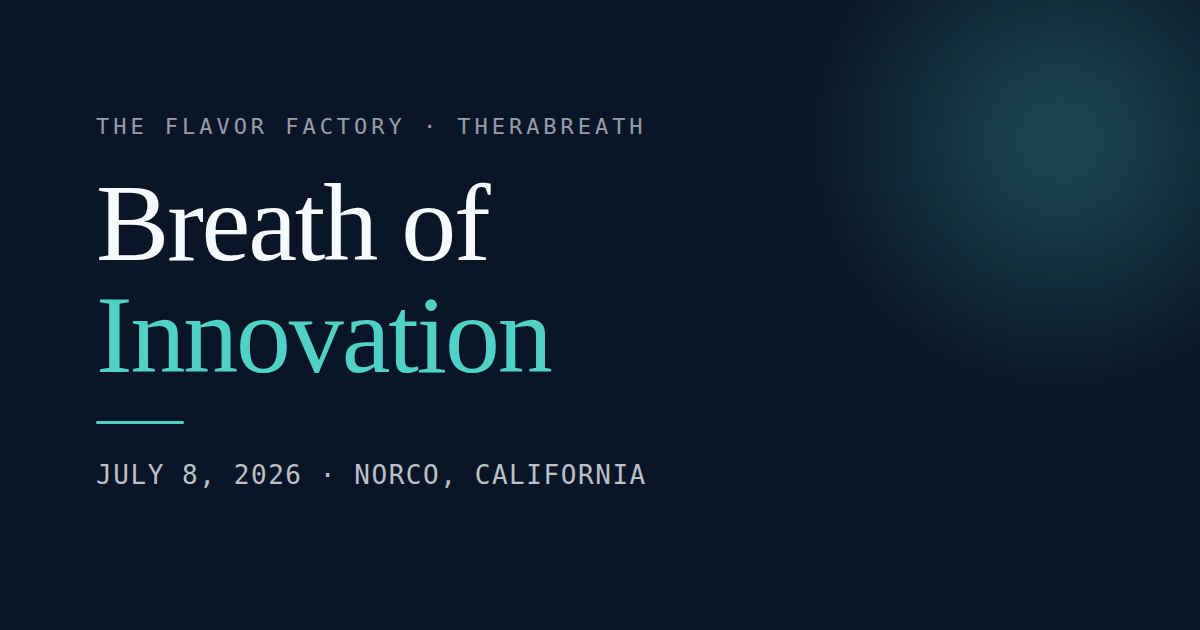
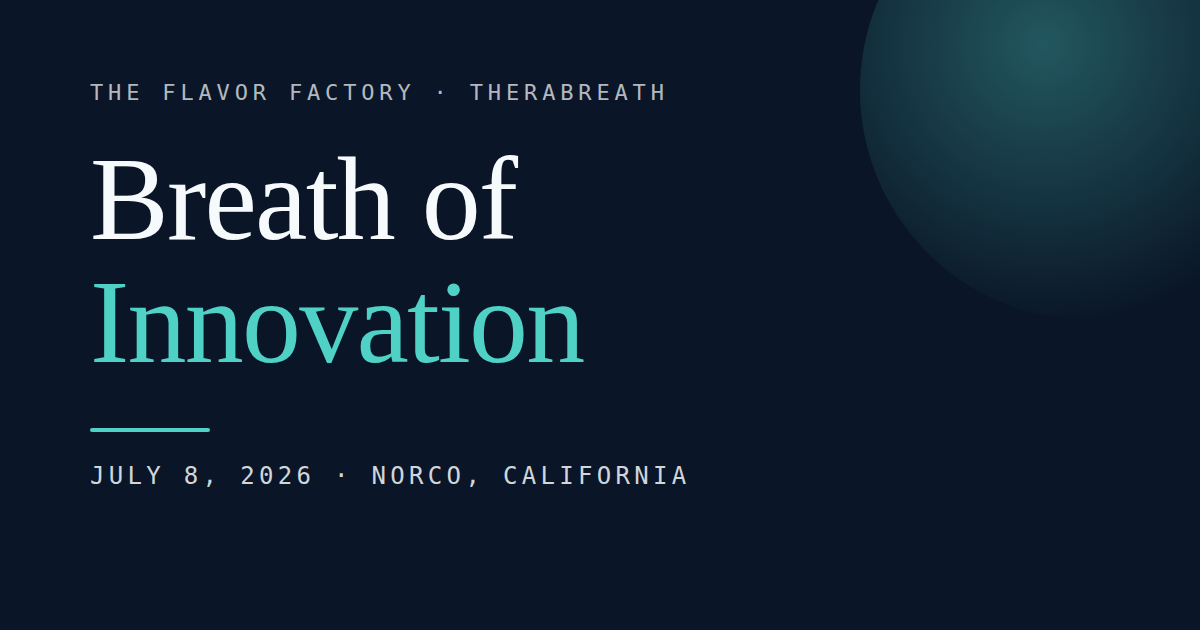
Swap display font from Fraunces to Source Serif 4 for readability
Fraunces letterforms (hooked f descenders, calligraphic details) read as
distracting at slide sizes. Source Serif 4 keeps the editorial serif voice
with clean, conventional letterforms. Removed the now unused SOFT and WONK
variation settings and regenerated the shared OG image to match.

Claude-Session: https://claude.ai/code/session_01STAb6oPpepGvZqQyt5Vx9Z

diff --git a/css/system.css b/css/system.css
@@ -17,7 +17,7 @@
   --ink-55: color-mix(in srgb, var(--ink) 55%, transparent);
 
   /* Type families */
-  --font-display: "Fraunces", Georgia, "Times New Roman", serif;
+  --font-display: "Source Serif 4", Georgia, "Times New Roman", serif;
   --font-body: "Inter", system-ui, -apple-system, sans-serif;
   --font-mono: "IBM Plex Mono", ui-monospace, "SFMono-Regular", monospace;
 
@@ -42,14 +42,13 @@
   --stagger: 70ms;
 }
 
-/* Display face warmth via SOFT and WONK, kept low */
+/* Display face. Source Serif 4 for clean, readable editorial headlines */
 .font-display,
 .sys h1,
 .sys h2,
 .sys .display {
   font-family: var(--font-display);
   font-optical-sizing: auto;
-  font-variation-settings: "SOFT" 40, "WONK" 0;
   letter-spacing: -0.01em;
   line-height: 1.05;
 }
@@ -189,7 +188,7 @@ body.hub .hub-nav {
   border: 1px solid var(--line);
 }
 body.hub .hub-mark { background: var(--ink); color: var(--paper); }
-body.hub .hub-brand-text { font-family: var(--font-display); font-variation-settings: "SOFT" 40; letter-spacing: -0.01em; }
+body.hub .hub-brand-text { font-family: var(--font-display); letter-spacing: -0.01em; }
 body.hub .hub-nav-links a { font-family: var(--font-mono); font-size: var(--t-xs); color: var(--ink-70); }
 body.hub .hub-nav-links a:hover { color: var(--ink); background: color-mix(in srgb, var(--breath) 16%, transparent); }
 body.hub .hub-nav-meta { font-family: var(--font-mono); color: var(--ink-55); letter-spacing: 0.08em; }
@@ -214,7 +213,6 @@ body.hub .hub-eyebrow {
 
 body.hub .hub-title {
   font-family: var(--font-display);
-  font-variation-settings: "SOFT" 40, "WONK" 0;
   font-weight: 500;
   letter-spacing: -0.02em;
   line-height: 1.02;
@@ -314,7 +312,7 @@ body.hub .hub-tile:hover {
 }
 body.hub .hub-tile:active { transform: scale(0.98); }
 body.hub .hub-tile-tag { font-family: var(--font-mono); color: var(--ink-70) !important; letter-spacing: 0.1em; }
-body.hub .hub-tile h3 { font-family: var(--font-display); font-variation-settings: "SOFT" 40; font-weight: 500; color: var(--ink); }
+body.hub .hub-tile h3 { font-family: var(--font-display); font-weight: 500; color: var(--ink); }
 body.hub .hub-tile p { color: var(--ink-70); font-family: var(--font-body); }
 body.hub .hub-tile-go { font-family: var(--font-mono); font-size: var(--t-xs); color: var(--ink) !important; }
 body.hub .hub-tile-go::after { content: " →"; transition: margin-left var(--dur-fast) var(--ease-out); }
@@ -447,7 +445,6 @@ html.pres-mode .pres-slide-inner::before {
 html.pres-mode .pres-slide h1,
 html.pres-mode .pres-qa-q {
   font-family: var(--font-display);
-  font-variation-settings: "SOFT" 40, "WONK" 0;
   font-weight: 500;
   letter-spacing: -0.02em;
   color: var(--ink);
@@ -545,7 +542,6 @@ html.pres-mode .pres-pillar-cell::before {
 html.pres-mode .pres-pillar-cell h3 {
   position: relative;
   font-family: var(--font-display);
-  font-variation-settings: "SOFT" 40;
   font-weight: 500;
   font-size: clamp(1.1rem, 2.6vmin, 1.7rem);
   color: var(--ink);
@@ -635,7 +631,7 @@ body.tasting .boi-score-actions { position: relative; z-index: 2; }
 /* Type in-system */
 body.tasting h1,
 body.tasting h2,
-body.tasting h3 { font-family: var(--font-display); font-variation-settings: "SOFT" 40, "WONK" 0; font-weight: 500; color: var(--paper); }
+body.tasting h3 { font-family: var(--font-display); font-weight: 500; color: var(--paper); }
 body.tasting .boi-kicker {
   font-family: var(--font-mono);
   letter-spacing: 0.14em;
@@ -802,7 +798,6 @@ body.port-mode .port-kicker i { background: var(--breath); }
 
 body.port-mode .port-hero h1 {
   font-family: var(--font-display);
-  font-variation-settings: "SOFT" 40, "WONK" 0;
   font-weight: 500;
   letter-spacing: -0.02em;
   color: var(--ink);
@@ -880,7 +875,6 @@ body.port-mode .port-card-img:not(.port-card-img--bottle):not(.port-card-img--te
 body.port-mode .port-card-foot-tag { font-family: var(--font-mono); letter-spacing: 0.08em; }
 body.port-mode .port-card-title {
   font-family: var(--font-display);
-  font-variation-settings: "SOFT" 40;
   font-weight: 500;
   letter-spacing: -0.01em;
 }
@@ -896,7 +890,7 @@ body.port-mode .port-card-title {
   body.port-mode .port-card-desc { clip-path: none !important; }
 }
 
-body.port-mode .port-close h2 { font-family: var(--font-display); font-variation-settings: "SOFT" 40; font-weight: 500; }
+body.port-mode .port-close h2 { font-family: var(--font-display); font-weight: 500; }
 
 /* ═══════════════════════════════════════════════════════════════
    FIND (body.dir-page) · command palette register
@@ -909,7 +903,6 @@ body.dir-page {
 body.dir-page .dir-hero-kicker { font-family: var(--font-mono); color: var(--ink-70); letter-spacing: 0.14em; }
 body.dir-page .dir-hero h1 {
   font-family: var(--font-display);
-  font-variation-settings: "SOFT" 40, "WONK" 0;
   font-weight: 500;
   color: var(--ink);
 }
@@ -946,12 +939,11 @@ body.dir-page .dir-search-hit:hover { background: color-mix(in srgb, var(--breat
 body.dir-page .dir-search-meta { font-family: var(--font-mono); letter-spacing: 0.06em; }
 body.dir-page .dir-cluster-head h2 {
   font-family: var(--font-display);
-  font-variation-settings: "SOFT" 40;
   font-weight: 500;
   color: var(--ink);
 }
 body.dir-page .dir-jump a { font-family: var(--font-mono); font-size: var(--t-xs); }
-body.dir-page .dir-card h3 { font-family: var(--font-display); font-variation-settings: "SOFT" 40; font-weight: 500; }
+body.dir-page .dir-card h3 { font-family: var(--font-display); font-weight: 500; }
 body.dir-page .dir-card em { font-family: var(--font-mono); }
 body.dir-page .dir-card {
   border-radius: var(--radius);
@@ -984,7 +976,7 @@ body.visit-page .boi-nav-links a.cta { background: var(--ink); color: var(--pape
 
 body.visit-page h1,
 body.visit-page h2,
-body.visit-page h3 { font-family: var(--font-display); font-variation-settings: "SOFT" 40, "WONK" 0; font-weight: 500; color: var(--ink); }
+body.visit-page h3 { font-family: var(--font-display); font-weight: 500; color: var(--ink); }
 body.visit-page .boi-kicker { font-family: var(--font-mono); letter-spacing: 0.14em; color: var(--ink-70); }
 body.visit-page .boi-kicker i {
   width: 8px; height: 8px; border-radius: 50%; background: var(--breath);

diff --git a/find.html b/find.html
@@ -7,7 +7,7 @@
     <meta name="theme-color" content="#f7fafc" />
     <title>Find Anything · Breath of Innovation</title>
     <link rel="icon" href="/assets/favicon.svg" type="image/svg+xml" />
-    <link href="https://fonts.googleapis.com/css2?family=Fraunces:ital,opsz,wght,SOFT,WONK@0,9..144,400..600,0..100,0..1&family=Inter:wght@400;500;600;700&family=IBM+Plex+Mono:wght@400;500;600&display=swap" rel="stylesheet" />
+    <link href="https://fonts.googleapis.com/css2?family=Source+Serif+4:ital,opsz,wght@0,8..60,400..700&family=Inter:wght@400;500;600;700&family=IBM+Plex+Mono:wght@400;500;600&display=swap" rel="stylesheet" />
     <link rel="stylesheet" href="/css/directory.css" />
     <link rel="stylesheet" href="/css/brand.css" />
     <link rel="stylesheet" href="/css/system.css" />

diff --git a/index.html b/index.html
@@ -9,7 +9,7 @@
     <link rel="icon" href="/assets/favicon.svg" type="image/svg+xml" />
     <link rel="preconnect" href="https://fonts.googleapis.com" />
     <link rel="preconnect" href="https://fonts.gstatic.com" crossorigin />
-    <link href="https://fonts.googleapis.com/css2?family=Fraunces:ital,opsz,wght,SOFT,WONK@0,9..144,400..600,0..100,0..1&family=Inter:wght@400;500;600;700&family=IBM+Plex+Mono:wght@400;500;600&display=swap" rel="stylesheet" />
+    <link href="https://fonts.googleapis.com/css2?family=Source+Serif+4:ital,opsz,wght@0,8..60,400..700&family=Inter:wght@400;500;600;700&family=IBM+Plex+Mono:wght@400;500;600&display=swap" rel="stylesheet" />
     <link rel="stylesheet" href="/css/hub.css" />
     <link rel="stylesheet" href="/css/directory.css" />
     <link rel="stylesheet" href="/css/brand.css" />

diff --git a/map.html b/map.html
@@ -9,7 +9,7 @@
     <link rel="icon" href="/assets/favicon.svg" type="image/svg+xml" />
     <link rel="preconnect" href="https://fonts.googleapis.com" />
     <link rel="preconnect" href="https://fonts.gstatic.com" crossorigin />
-    <link href="https://fonts.googleapis.com/css2?family=Fraunces:ital,opsz,wght,SOFT,WONK@0,9..144,400..600,0..100,0..1&family=Inter:wght@400;500;600;700&family=IBM+Plex+Mono:wght@400;500;600&display=swap" rel="stylesheet" />
+    <link href="https://fonts.googleapis.com/css2?family=Source+Serif+4:ital,opsz,wght@0,8..60,400..700&family=Inter:wght@400;500;600;700&family=IBM+Plex+Mono:wght@400;500;600&display=swap" rel="stylesheet" />
     <link rel="stylesheet" href="/css/site.css" />
     <link rel="stylesheet" href="/css/taste.css" />
     <link rel="stylesheet" href="/css/system.css" />

diff --git a/portfolio.html b/portfolio.html
@@ -9,7 +9,7 @@
     <link rel="icon" href="/assets/favicon.svg" type="image/svg+xml" />
     <link rel="preconnect" href="https://fonts.googleapis.com" />
     <link rel="preconnect" href="https://fonts.gstatic.com" crossorigin />
-    <link href="https://fonts.googleapis.com/css2?family=Fraunces:ital,opsz,wght,SOFT,WONK@0,9..144,400..600,0..100,0..1&family=Inter:wght@400;500;600;700&family=IBM+Plex+Mono:wght@400;500;600&display=swap" rel="stylesheet" />
+    <link href="https://fonts.googleapis.com/css2?family=Source+Serif+4:ital,opsz,wght@0,8..60,400..700&family=Inter:wght@400;500;600;700&family=IBM+Plex+Mono:wght@400;500;600&display=swap" rel="stylesheet" />
     <link rel="stylesheet" href="/css/site.css" />
     <link rel="stylesheet" href="/css/portfolio.css" />
     <link rel="stylesheet" href="/css/system.css" />

diff --git a/present.html b/present.html
@@ -8,7 +8,7 @@
     <link rel="icon" href="/assets/favicon.svg" type="image/svg+xml" />
     <link rel="preconnect" href="https://fonts.googleapis.com" />
     <link rel="preconnect" href="https://fonts.gstatic.com" crossorigin />
-    <link href="https://fonts.googleapis.com/css2?family=Fraunces:ital,opsz,wght,SOFT,WONK@0,9..144,400..600,0..100,0..1&family=Inter:wght@400;500;600;700&family=IBM+Plex+Mono:wght@400;500;600&display=swap" rel="stylesheet" />
+    <link href="https://fonts.googleapis.com/css2?family=Source+Serif+4:ital,opsz,wght@0,8..60,400..700&family=Inter:wght@400;500;600;700&family=IBM+Plex+Mono:wght@400;500;600&display=swap" rel="stylesheet" />
     <link rel="stylesheet" href="/css/site.css" />
     <link rel="stylesheet" href="/css/present.css" />
     <link rel="stylesheet" href="/css/brand.css" />

diff --git a/score.html b/score.html
@@ -9,7 +9,7 @@
     <link rel="icon" href="/assets/favicon.svg" type="image/svg+xml" />
     <link rel="preconnect" href="https://fonts.googleapis.com" />
     <link rel="preconnect" href="https://fonts.gstatic.com" crossorigin />
-    <link href="https://fonts.googleapis.com/css2?family=Fraunces:ital,opsz,wght,SOFT,WONK@0,9..144,400..600,0..100,0..1&family=Inter:wght@400;500;600;700&family=IBM+Plex+Mono:wght@400;500;600&display=swap" rel="stylesheet" />
+    <link href="https://fonts.googleapis.com/css2?family=Source+Serif+4:ital,opsz,wght@0,8..60,400..700&family=Inter:wght@400;500;600;700&family=IBM+Plex+Mono:wght@400;500;600&display=swap" rel="stylesheet" />
     <link rel="stylesheet" href="/css/site.css" />
     <link rel="stylesheet" href="/css/taste.css" />
     <link rel="stylesheet" href="/css/system.css" />

diff --git a/taste.html b/taste.html
@@ -9,7 +9,7 @@
     <link rel="icon" href="/assets/favicon.svg" type="image/svg+xml" />
     <link rel="preconnect" href="https://fonts.googleapis.com" />
     <link rel="preconnect" href="https://fonts.gstatic.com" crossorigin />
-    <link href="https://fonts.googleapis.com/css2?family=Fraunces:ital,opsz,wght,SOFT,WONK@0,9..144,400..600,0..100,0..1&family=Inter:wght@400;500;600;700&family=IBM+Plex+Mono:wght@400;500;600&display=swap" rel="stylesheet" />
+    <link href="https://fonts.googleapis.com/css2?family=Source+Serif+4:ital,opsz,wght@0,8..60,400..700&family=Inter:wght@400;500;600;700&family=IBM+Plex+Mono:wght@400;500;600&display=swap" rel="stylesheet" />
     <link rel="stylesheet" href="/css/site.css" />
     <link rel="stylesheet" href="/css/system.css" />
     <meta property="og:title" content="Breath of Innovation" />

diff --git a/visit.html b/visit.html
@@ -9,7 +9,7 @@
     <link rel="icon" href="/assets/favicon.svg" type="image/svg+xml" />
     <link rel="preconnect" href="https://fonts.googleapis.com" />
     <link rel="preconnect" href="https://fonts.gstatic.com" crossorigin />
-    <link href="https://fonts.googleapis.com/css2?family=Fraunces:ital,opsz,wght,SOFT,WONK@0,9..144,400..600,0..100,0..1&family=Inter:wght@400;500;600;700&family=IBM+Plex+Mono:wght@400;500;600&display=swap" rel="stylesheet" />
+    <link href="https://fonts.googleapis.com/css2?family=Source+Serif+4:ital,opsz,wght@0,8..60,400..700&family=Inter:wght@400;500;600;700&family=IBM+Plex+Mono:wght@400;500;600&display=swap" rel="stylesheet" />
     <link rel="stylesheet" href="/css/site.css" />
     <link rel="stylesheet" href="/css/system.css" />
     <meta property="og:title" content="Breath of Innovation" />